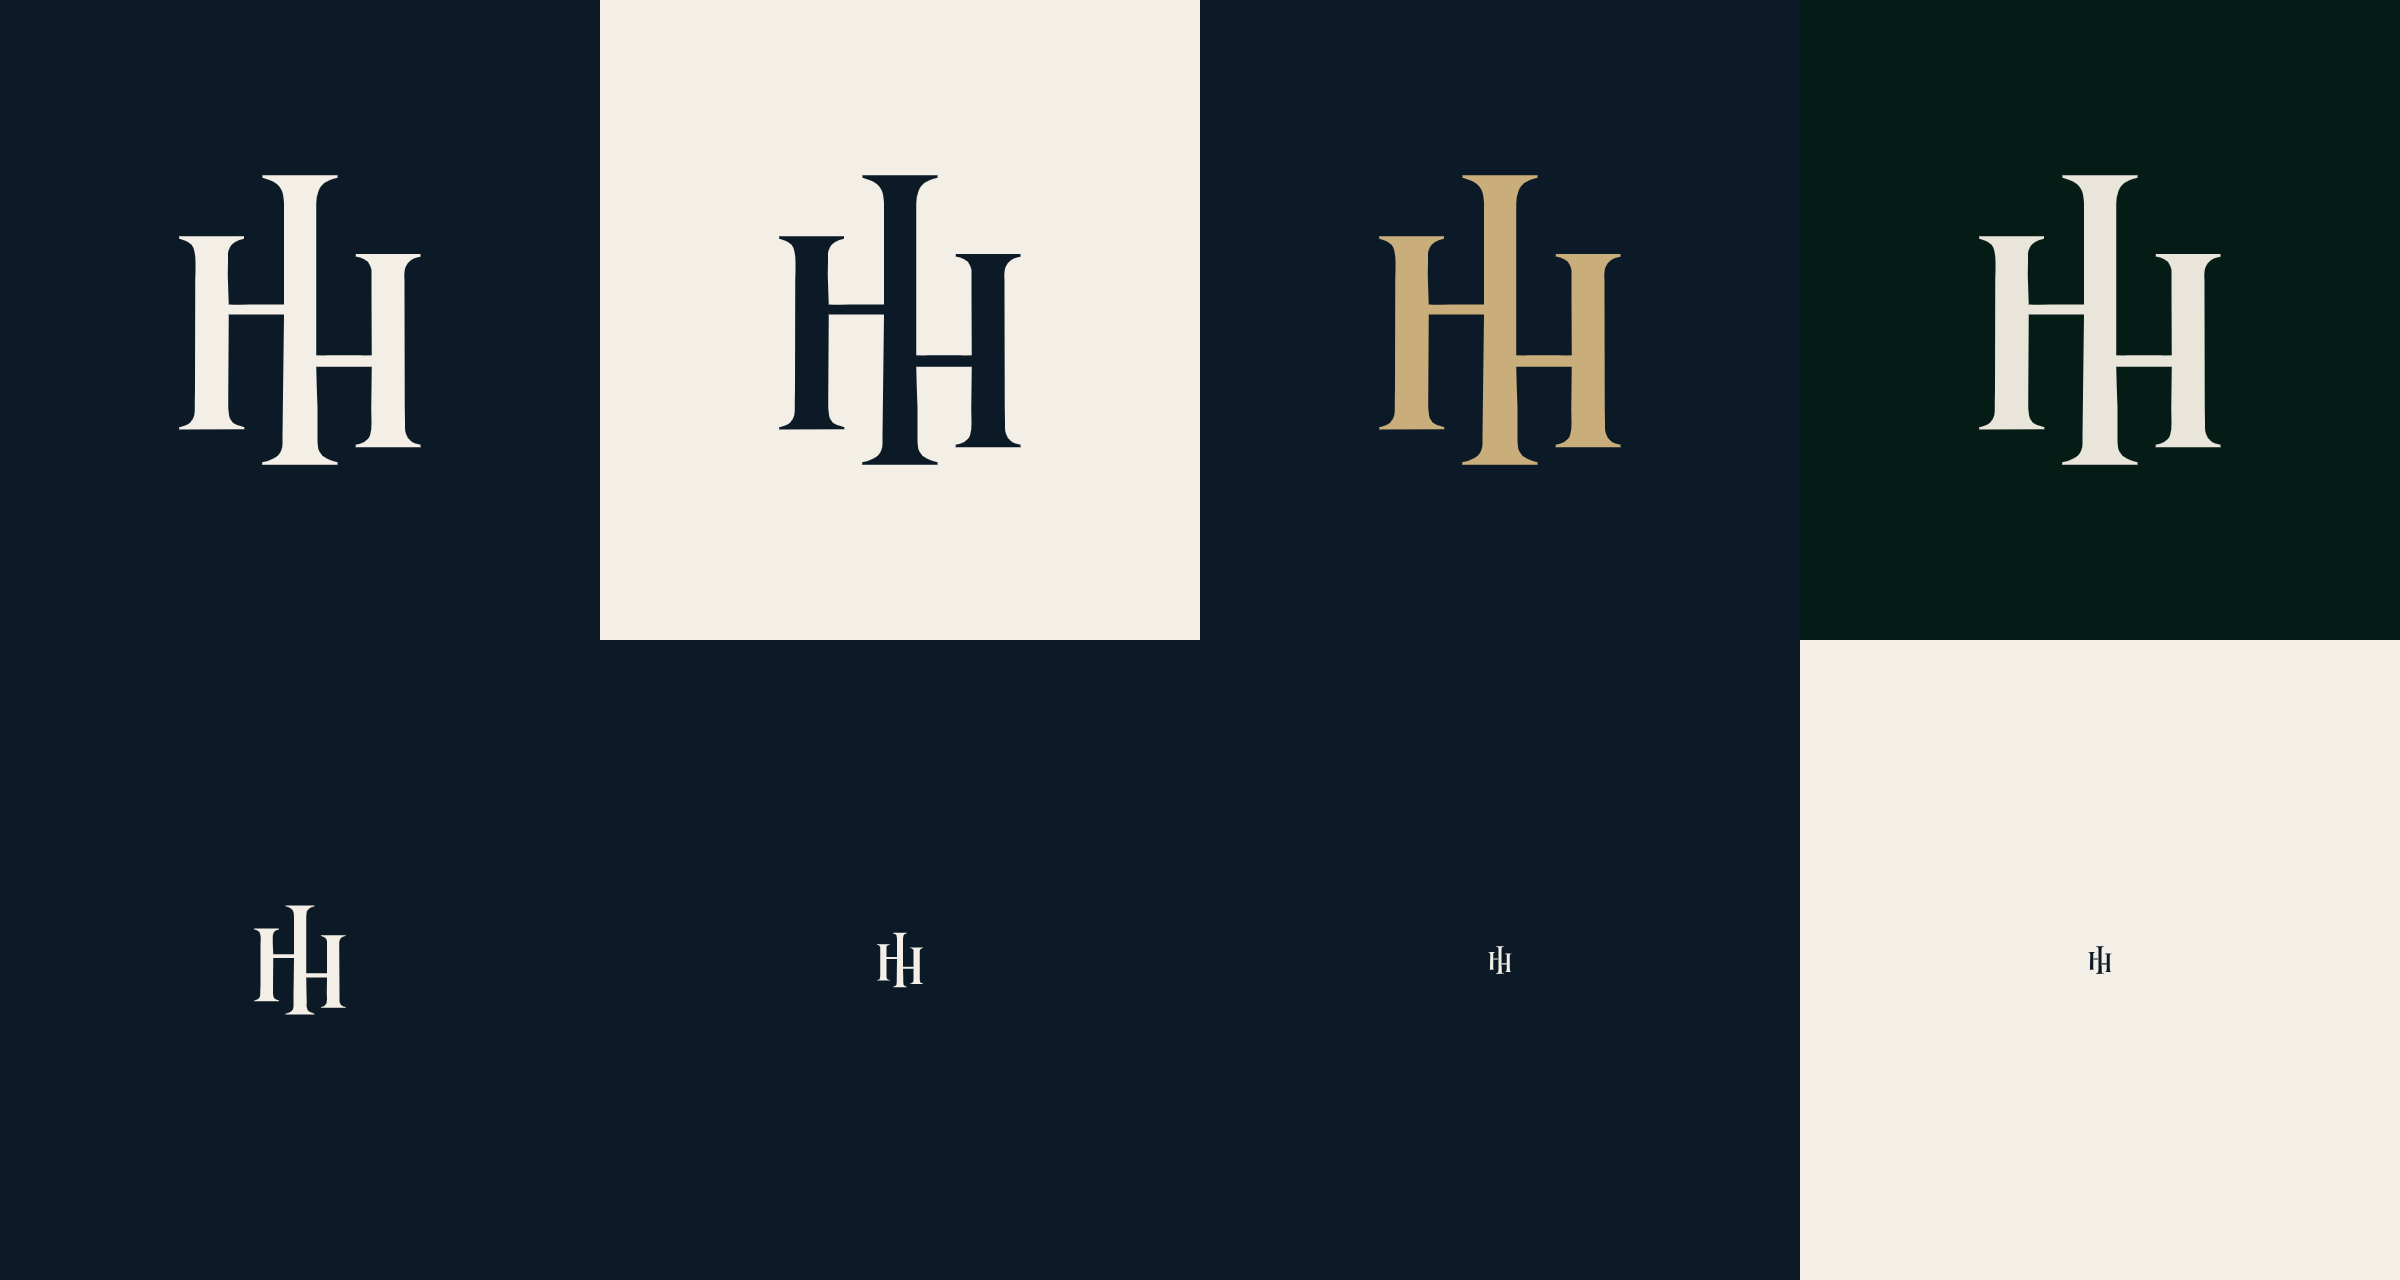
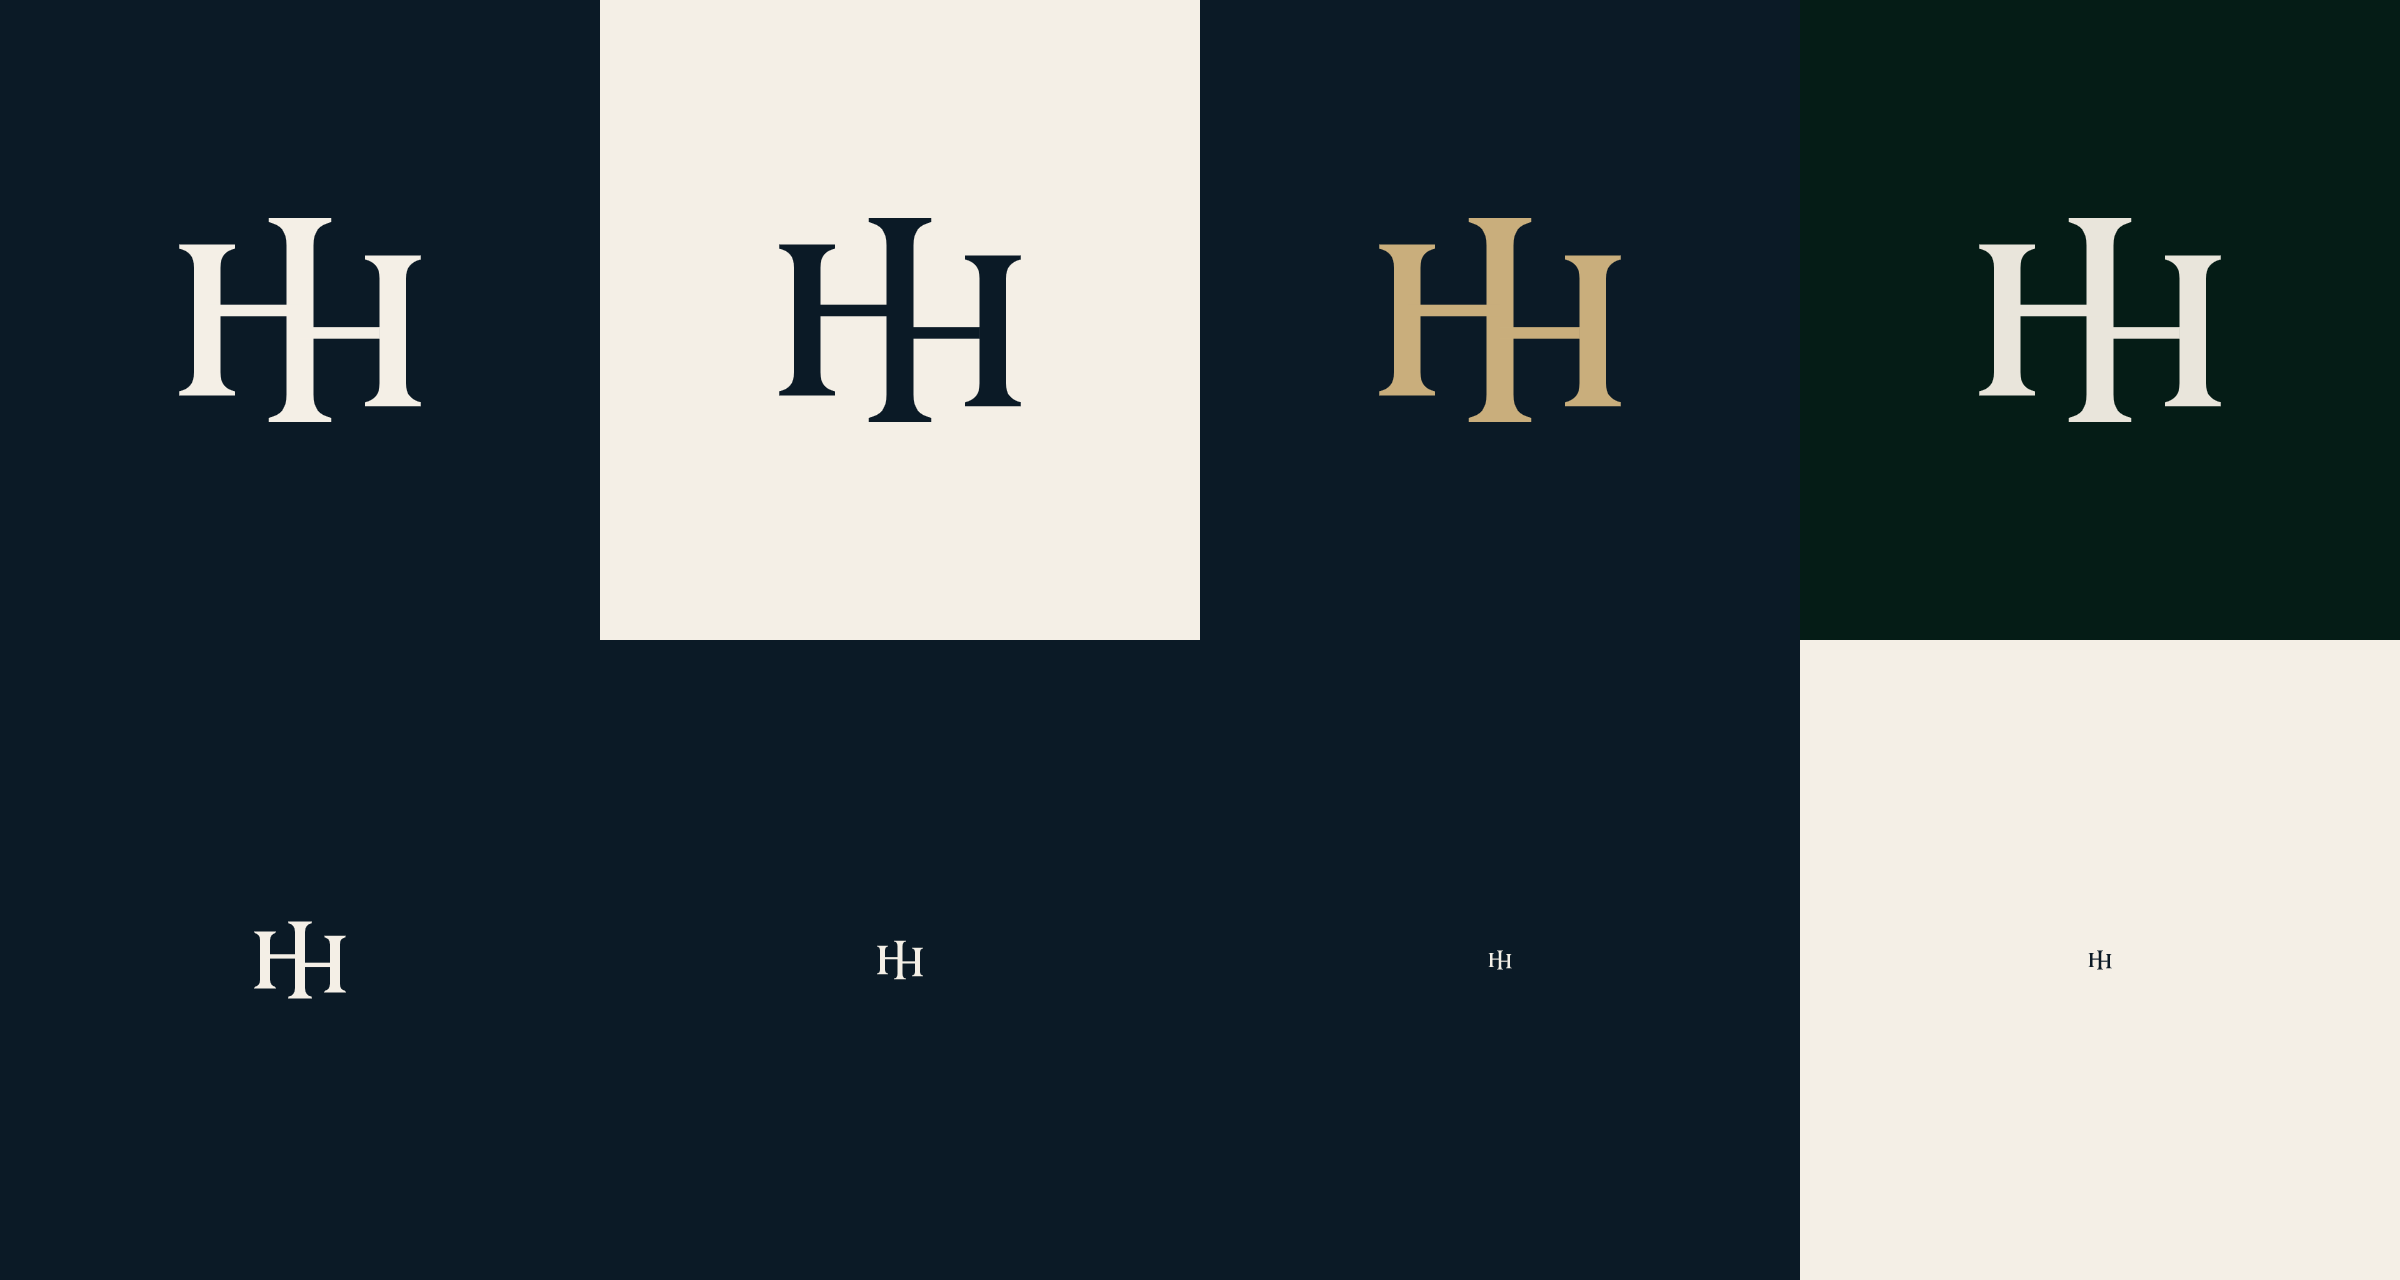
Refined HH monogram
Replaces the traced mark with the hand-authored one: five paths, three
uprights on a raised shared spine with two offset bars, title/desc for
assistive tech. 994 bytes against 2.9KB traced (and 351KB as supplied
originally).

It also needs less rescue at small sizes. The traced mark had hairline
crossbars that vanished first and needed a stroke of 26 to survive 16px;
these bars are solid 34-unit rectangles, so the ladder drops to 16 at
16px, 10 at 32px, and the plain cut from 48px up.

diff --git a/tools/build-icons.js b/tools/build-icons.js
@@ -4,7 +4,7 @@ const BR=path.resolve(__dirname,'../brand');
 const OUT=path.resolve(__dirname,'../site-brand/assets/img');
 const rd=f=>fs.readFileSync(path.join(BR,f),'utf8');
 // size -> which weight-compensated cut survives it
-const LADDER=[[16,'hh-mono-16.svg'],[32,'hh-mono-24.svg'],[48,'hh-mono-32.svg'],
+const LADDER=[[16,'hh-mono-16.svg'],[32,'hh-mono-24.svg'],[48,'hh-mono.svg'],
               [180,'hh-mono.svg'],[512,'hh-mono.svg']];
 (async()=>{
  const b=await puppeteer.launch({executablePath:'C:/Program Files/Google/Chrome/Application/chrome.exe',
